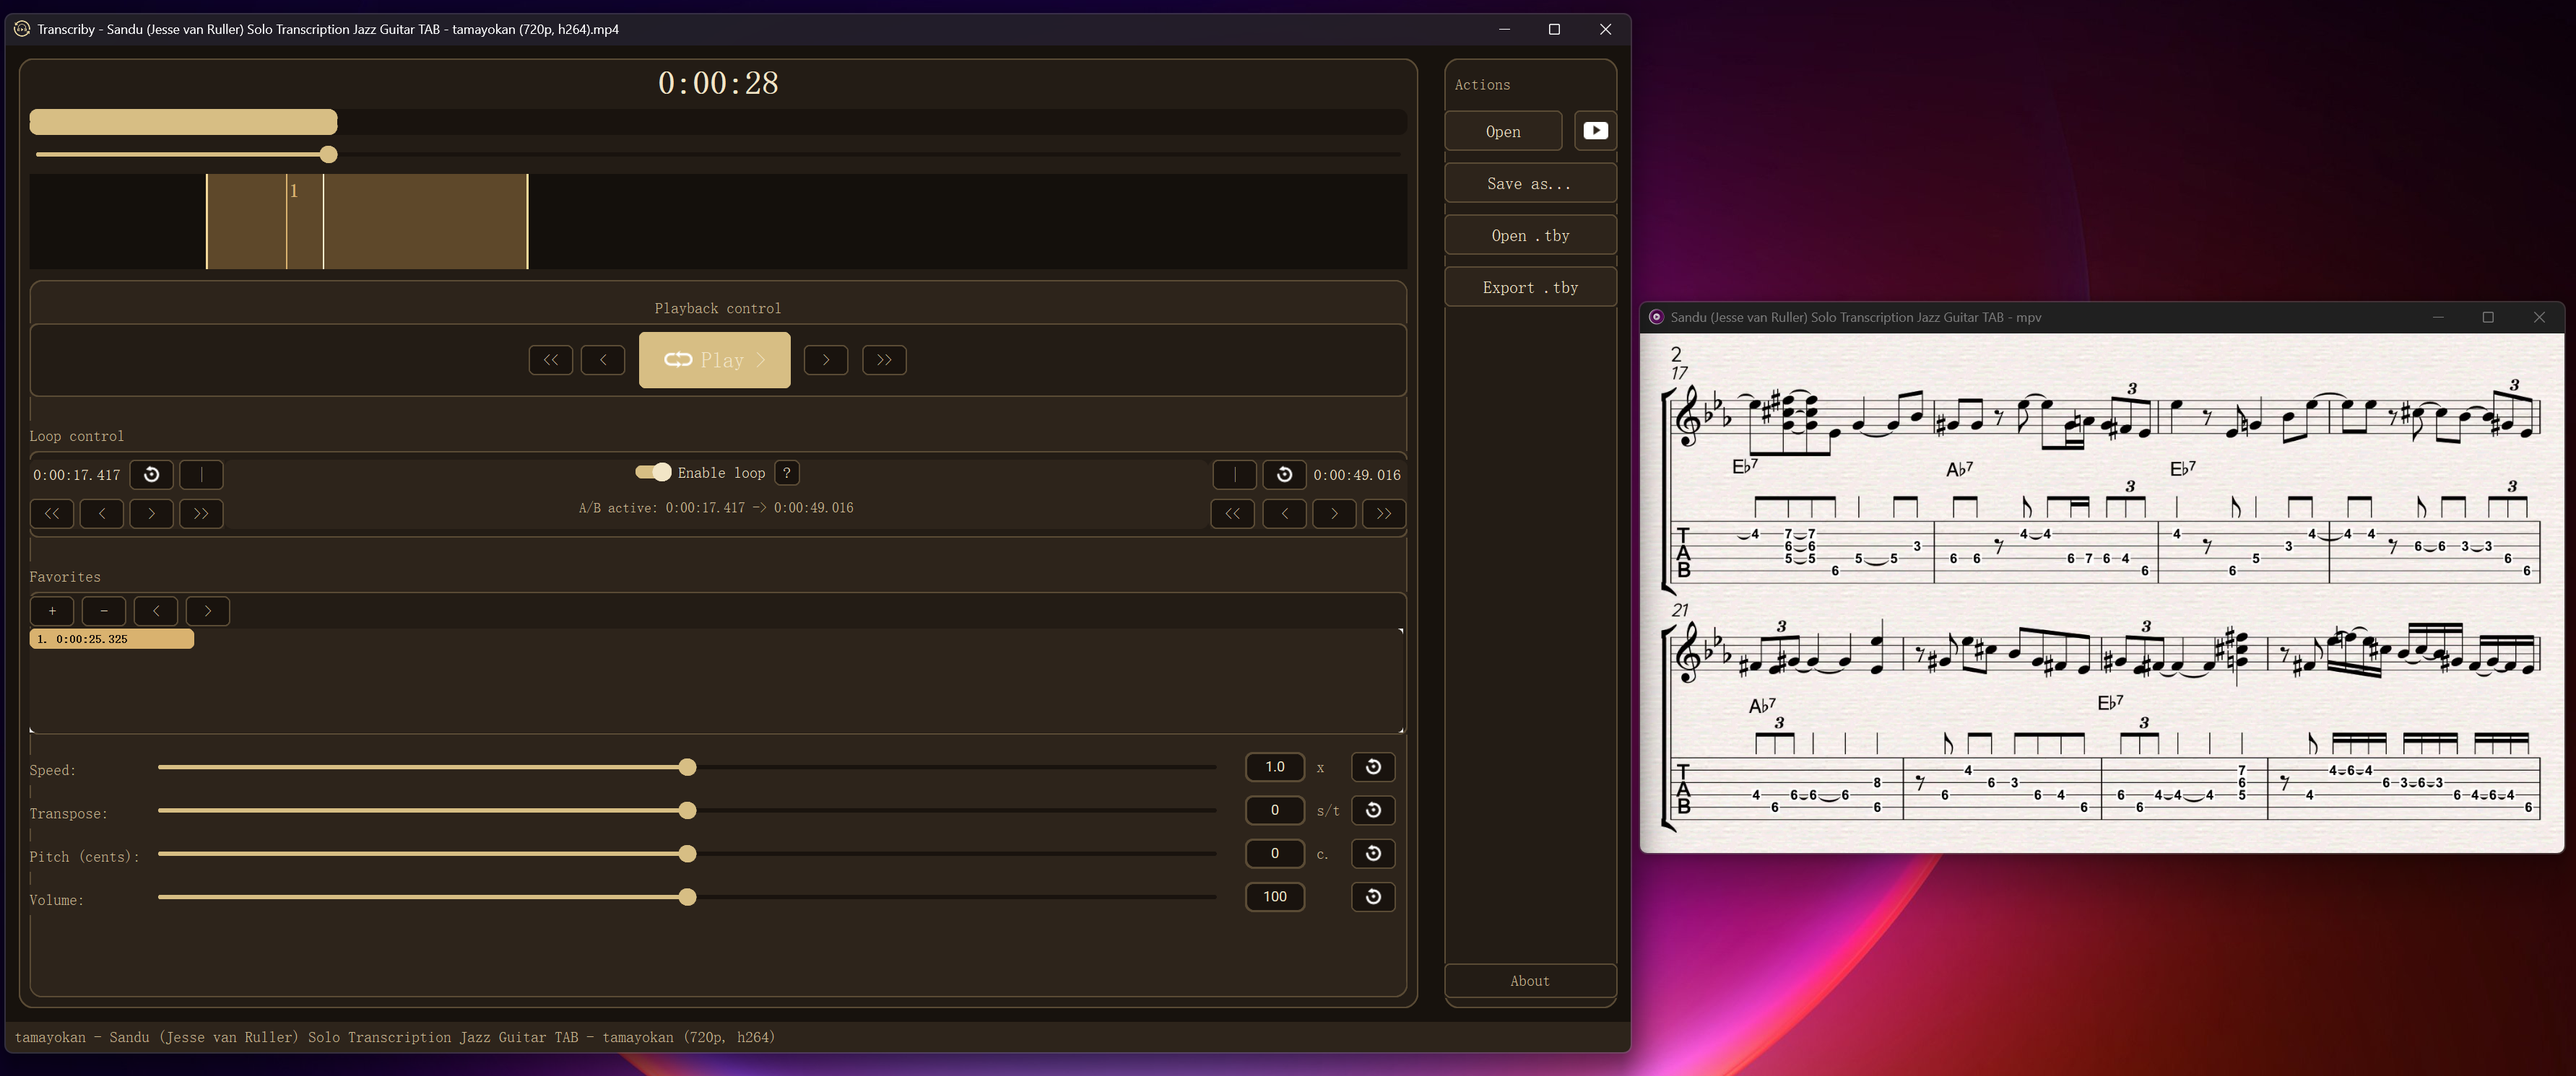
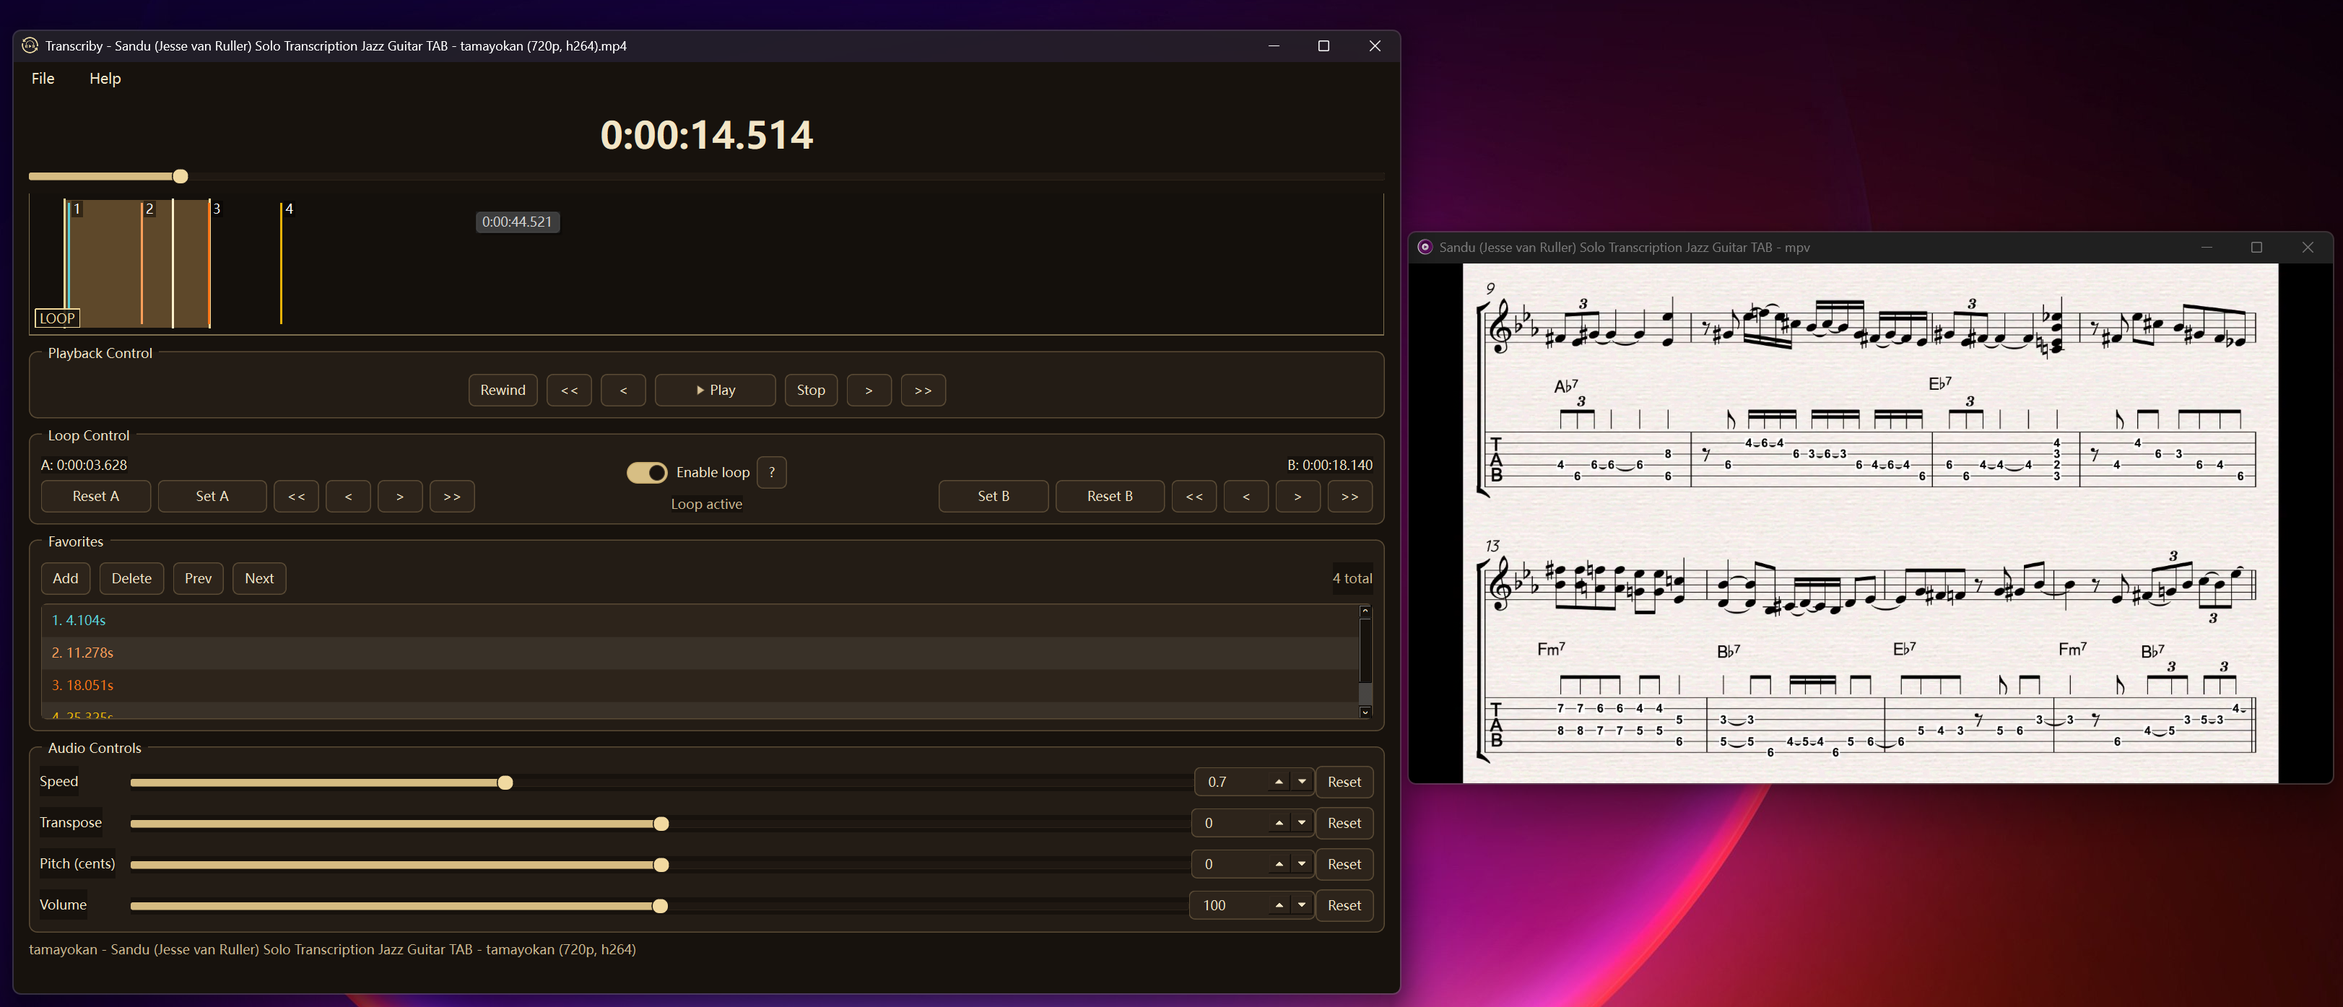
fix: enable mpv-window shortcuts and update screenshot

Changed region(s): [[0.0, 0.0, 0.996, 1.0], [0.249, 0.1233, 0.3424, 0.1541]]

diff --git a/transcriby/player.py b/transcriby/player.py
@@ -299,7 +299,12 @@ class slowPlayer():
     def __init__(self):
         """Initialize the audio player"""
         # mpv player (audio/video)
-        self._player = mpv.MPV(ytdl=False, vid="auto")
+        self._player = mpv.MPV(
+            ytdl=False,
+            vid="auto",
+            input_vo_keyboard=True,
+            input_default_bindings=False,
+        )
         self._player.pause = True
         self._window_key_binding_names = []
 
@@ -586,8 +591,19 @@ class slowPlayer():
         sanitized = "".join(ch.lower() if ch.isalnum() else "_" for ch in str(keydef))
         binding_name = f"slowplay_{sanitized}_{len(self._window_key_binding_names)}"
 
-        def _wrapped(state=None, _name=None):
-            if isinstance(state, str) and state not in {"down", "press", "repeat"}:
+        def _wrapped(*args, **kwargs):
+            # python-mpv callback signatures vary by version:
+            # some pass (state, name), some pass only name/state, some use kwargs.
+            states = []
+            for value in args:
+                if isinstance(value, str):
+                    states.append(value.lower())
+            kw_state = kwargs.get("state")
+            if isinstance(kw_state, str):
+                states.append(kw_state.lower())
+
+            # Trigger on key down/press/repeat; ignore explicit key-up/release only.
+            if any(state in {"up", "release"} for state in states):
                 return
             try:
                 callback()

diff --git a/transcriby/qt_window.py b/transcriby/qt_window.py
@@ -689,8 +689,8 @@ class TranscribyQtWindow(QMainWindow):
             ("l", self._toggle_loop_shortcut),
             ("a", self._on_set_loop_start_clicked),
             ("b", self._on_set_loop_end_clicked),
-            ("ctrl+a", self._on_reset_loop_start_clicked),
-            ("ctrl+b", self._on_reset_loop_end_clicked),
+            ("Ctrl+a", self._on_reset_loop_start_clicked),
+            ("Ctrl+b", self._on_reset_loop_end_clicked),
             ("LEFT", lambda: self._seek_relative(-STEPS_SEC_MOVE_1)),
             ("RIGHT", lambda: self._seek_relative(STEPS_SEC_MOVE_1)),
             ("[", lambda: self._seek_relative(-1.0)),
@@ -698,9 +698,9 @@ class TranscribyQtWindow(QMainWindow):
             (",", lambda: self._seek_relative(-0.1)),
             (".", lambda: self._seek_relative(0.1)),
             ("m", self._on_add_favorite_clicked),
-            ("M", self._on_delete_favorite_clicked),
-            ("ctrl+[", self._on_jump_previous_favorite_clicked),
-            ("ctrl+]", self._on_jump_next_favorite_clicked),
+            ("Shift+m", self._on_delete_favorite_clicked),
+            ("Ctrl+[", self._on_jump_previous_favorite_clicked),
+            ("Ctrl+]", self._on_jump_next_favorite_clicked),
             ("c", lambda: self._nudge_speed(STEPS_SPEED)),
             ("x", lambda: self._nudge_speed(-STEPS_SPEED)),
         ]
